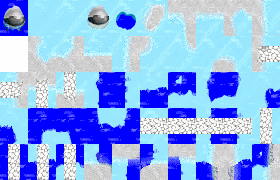
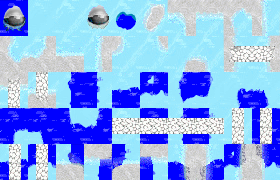
New igloo wall (by ADoS) and desert crater (by me)

diff --git a/rsrc/graphics/CREDITS.md b/rsrc/graphics/CREDITS.md
@@ -72,7 +72,8 @@ are by ADoS, and the rest are by Mistb0rn.
 - ter9.png is entirely by ADoS (some based on original BoE graphics).
 - On ter10.png, the base ice tiles (graphics 1 and 2) are by Mistb0rn and the rest is by
 ADoS (based on those tiles and original BoE graphics) with some tweaks by Celtic Minstrel.
-- ter11.png, ter12.png, ter13.png, and ter14.png are entirely by ADoS.
+- ter11.png, ter12.png, ter13.png, and ter14.png are entirely by ADoS, except for the
+desert crater (graphic 7 on ter12.png) which is by Celtic Minstrel.
 - On teranim.png, graphic 15 is by Mistb0rn and graphic 16 is by ADoS.
 - termap.png currently just contains directly shrunken versions of the other sheets.
 
